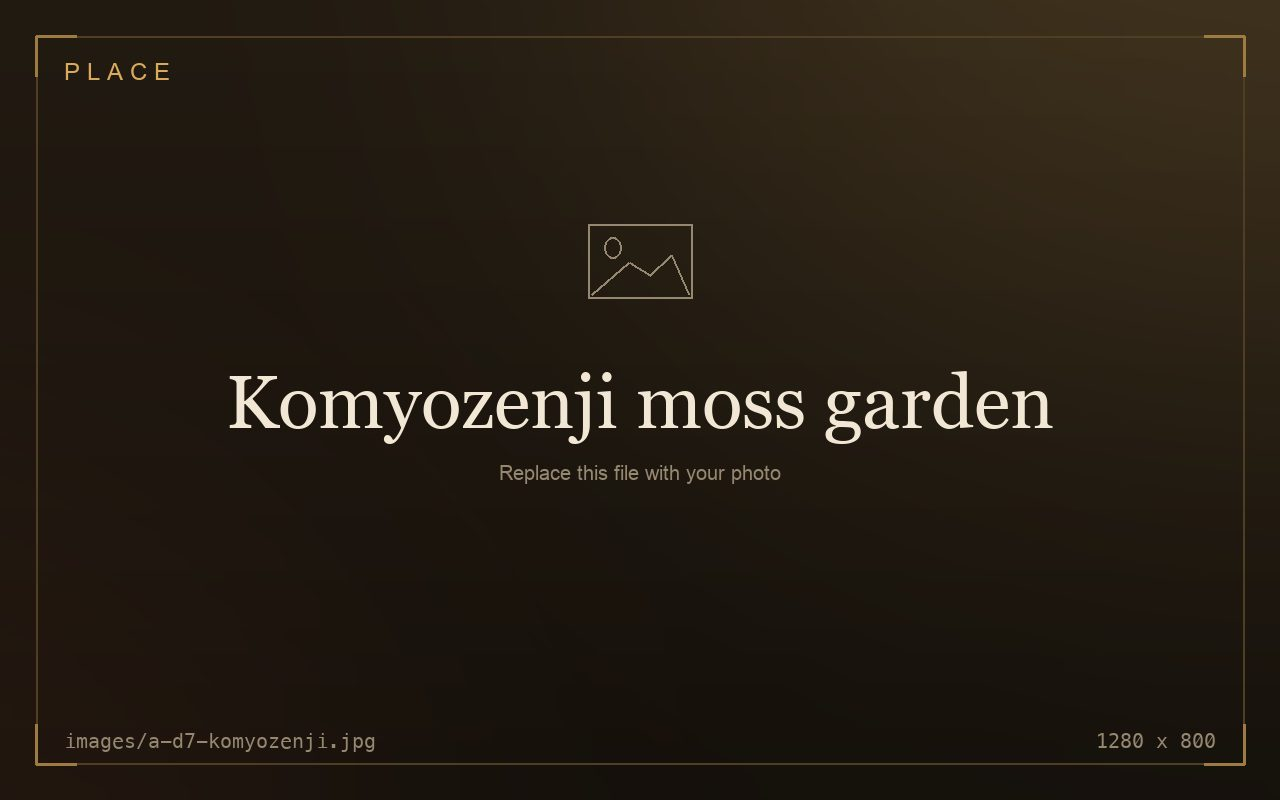
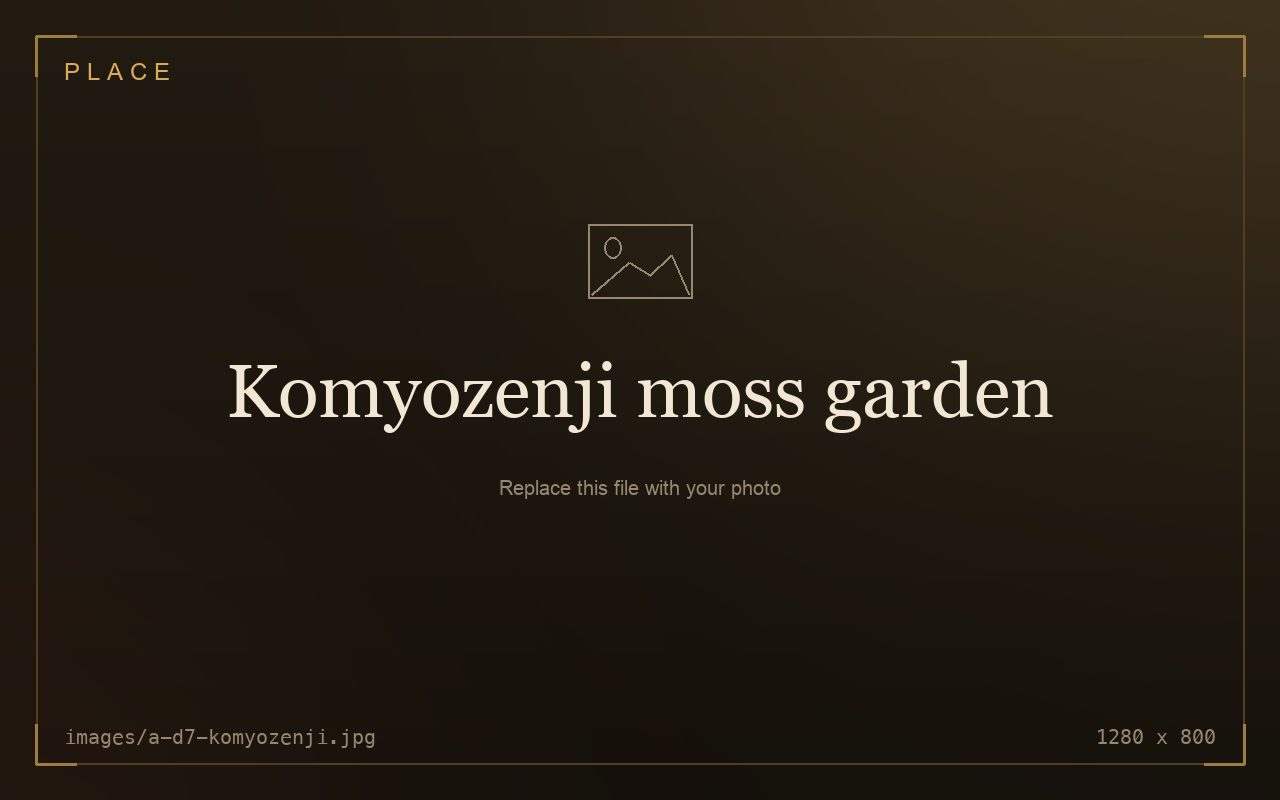
Make the placeholder generator work on Pillow 10+; v66
Pillow 10 removed FreeTypeFont.getsize(), which measure() was built on, so
images/_generate_placeholders.py died with AttributeError on any modern
install. measure() now derives the same values from getbbox().

The mapping is not the obvious one. Pillow defined getbbox() as
(left, top, left+width, top+height) and getsize() as
(size[0], size[1] + offset[1]) -- so getsize == (right - left, bottom).
The height keeps the vertical offset, the width does not.

Verified rather than assumed: regenerated an existing placeholder under each
candidate mapping and compared the title's ink bounding box against the
committed original. (right-left, bottom) reproduces it exactly; the plausible
(right-left, bottom-top) shifts the title down 11px and shrinks line spacing
by 14px. Non-text regions come back pixel-identical, and the residual in the
title band is FreeType glyph antialiasing between versions, not misplacement.
Also exercised the wrap and auto-shrink paths on a title long enough to need
both. Comment in measure() records the trap.

Regenerated a-d7-komyozenji.jpg, which I had produced earlier via a one-off
shim using the wrong mapping, so its title now sits on the same baseline as
the other 163 placeholders. No other image is touched -- the exists-guard in
make() held, md5-verified across all 170 files.

Changed region(s): [[0.1875, 0.4375, 0.8438, 0.625], [0.0625, 0.9062, 0.3125, 0.9375], [0.8438, 0.9062, 0.9688, 0.9375]]

diff --git a/sw.js b/sw.js
@@ -1,5 +1,5 @@
 /* WWN - Kyushu Trip - offline service worker */
-const CACHE = 'wwn-kyushu-v65';
+const CACHE = 'wwn-kyushu-v66';
 const PRECACHE = ["./", "manifest.json", "vendor/react.production.min.js", "vendor/react-dom.production.min.js", "vendor/babel.min.js", "icon-192.png", "icon-512.png", "images/a-d1-canalcity.jpg", "images/a-d1-fukcoffee.jpg", "images/a-d1-illum.jpg", "images/a-d1-imdonut.jpg", "images/a-d1-motsunabe.jpg", "images/a-d1-nightlife.jpg", "images/a-d1-ramen.jpg", "images/a-d10-canal.jpg", "images/a-d10-dinner.jpg", "images/a-d10-illum.jpg", "images/a-d10-mentaiko.jpg", "images/a-d10-nightlife.jpg", "images/a-d10-ramen.jpg", "images/a-d2-cityrun.jpg", "images/a-d2-milkroad.jpg", "images/a-d2-nishiyu.jpg", "images/a-d2-komezuka.jpg", "images/a-d2-dinner.jpg", "images/a-d2-nightlife.jpg", "images/a-d2-omotesando.jpg", "images/a-d2-starbucks.jpg", "images/a-d2-tenmangu.jpg", "images/a-d2-unagi.jpg", "images/a-d2-yanagawa.jpg", "images/a-d2-yatai.jpg", "images/a-d3-daikanbo.jpg", "images/a-d3-kaiseki.jpg", "images/a-d3-kusasenri.jpg", "images/a-d3-lunch.jpg", "images/a-d3-nakadake.jpg", "images/a-d3-sweets.jpg", "images/a-d4-basashi.jpg", "images/a-d4-castle.jpg", "images/a-d4-katsuretsu.jpg", "images/a-d4-suizenji.jpg", "images/a-d4-sweets.jpg", "images/a-d5-chinoike.jpg", "images/a-d5-lunch.jpg", "images/a-d5-sushi.jpg", "images/a-d5-sweets.jpg", "images/a-d5-umijigoku.jpg", "images/a-d6-kinrin.jpg", "images/a-d6-mabushi.jpg", "images/a-d6-ryokan.jpg", "images/a-d6-sweets.jpg", "images/a-d6-yunotsubo.jpg", "images/a-d7-lunch.jpg", "images/a-d7-mist.jpg", "images/a-d7-komyozenji.jpg", "images/a-d7-shopping.jpg", "images/a-d7-tempura.jpg", "images/a-d8-cafes.jpg", "images/a-d8-dinner.jpg", "images/a-d8-keya.jpg", "images/a-d8-oyster.jpg", "images/a-d8-sunset.jpg", "images/a-d8-torii.jpg", "images/a-d9-daimyo.jpg", "images/a-d9-lunch.jpg", "images/a-d9-maizuru.jpg", "images/a-d9-nightlife.jpg", "images/a-d9-ohori.jpg", "images/a-d9-sweets.jpg", "images/a-d9-tower.jpg", "images/a-d9-yakiniku.jpg", "images/cover-hero.jpg", "images/day1-cover.jpg", "images/day10-cover.jpg", "images/day11-cover.jpg", "images/day2-cover.jpg", "images/day3-cover.jpg", "images/day4-cover.jpg", "images/day5-cover.jpg", "images/day6-cover.jpg", "images/day7-cover.jpg", "images/day8-cover.jpg", "images/day9-cover.jpg", "images/dish-a-d1-imdonut-0.jpg", "images/dish-a-d1-imdonut-1.jpg", "images/dish-a-d1-imdonut-2.jpg", "images/dish-a-d1-fukcoffee-0.jpg", "images/dish-a-d1-fukcoffee-1.jpg", "images/dish-a-d1-motsunabe-0.jpg", "images/dish-a-d1-motsunabe-1.jpg", "images/dish-a-d1-motsunabe-2.jpg", "images/dish-a-d1-motsunabe-3.jpg", "images/dish-a-d1-ramen-0.jpg", "images/dish-a-d1-ramen-1.jpg", "images/dish-a-d1-ramen-2.jpg", "images/dish-a-d1-ramen-3.jpg", "images/dish-a-d10-ramen-0.jpg", "images/dish-a-d10-ramen-1.jpg", "images/dish-a-d10-ramen-2.jpg", "images/dish-a-d10-ramen-3.jpg", "images/dish-a-d2-cityrun-0.jpg", "images/dish-a-d2-cityrun-1.jpg", "images/dish-a-d2-cityrun-2.jpg", "images/dish-a-d2-cityrun-3.jpg", "images/dish-a-d2-cityrun-4.jpg", "images/dish-a-d2-cityrun-5.jpg", "images/dish-a-d2-starbucks-0.jpg", "images/dish-a-d2-starbucks-1.jpg", "images/dish-a-d2-starbucks-2.jpg", "images/dish-a-d2-yatai-0.jpg", "images/dish-a-d2-yatai-1.jpg", "images/dish-a-d2-yatai-2.jpg", "images/dish-a-d2-yatai-3.jpg", "images/dish-a-d3-kaiseki-0.jpg", "images/dish-a-d3-kaiseki-1.jpg", "images/dish-a-d3-kaiseki-2.jpg", "images/dish-a-d3-kaiseki-3.jpg", "images/dish-a-d3-sweets-0.jpg", "images/dish-a-d3-sweets-1.jpg", "images/dish-a-d3-sweets-2.jpg", "images/dish-a-d4-basashi-0.jpg", "images/dish-a-d4-basashi-1.jpg", "images/dish-a-d4-basashi-2.jpg", "images/dish-a-d4-basashi-3.jpg", "images/dish-a-d4-katsuretsu-0.jpg", "images/dish-a-d4-katsuretsu-1.jpg", "images/dish-a-d4-katsuretsu-2.jpg", "images/dish-a-d4-katsuretsu-3.jpg", "images/dish-a-d4-sweets-0.jpg", "images/dish-a-d4-sweets-1.jpg", "images/dish-a-d4-sweets-2.jpg", "images/dish-a-d5-sushi-0.jpg", "images/dish-a-d5-sushi-1.jpg", "images/dish-a-d5-sushi-2.jpg", "images/dish-a-d5-sushi-3.jpg", "images/dish-a-d5-sweets-0.jpg", "images/dish-a-d5-sweets-1.jpg", "images/dish-a-d5-sweets-2.jpg", "images/dish-a-d6-mabushi-0.jpg", "images/dish-a-d6-mabushi-1.jpg", "images/dish-a-d6-mabushi-2.jpg", "images/dish-a-d6-mabushi-3.jpg", "images/dish-a-d6-ryokan-0.jpg", "images/dish-a-d6-ryokan-1.jpg", "images/dish-a-d6-ryokan-2.jpg", "images/dish-a-d6-ryokan-3.jpg", "images/dish-a-d6-sweets-0.jpg", "images/dish-a-d6-sweets-1.jpg", "images/dish-a-d6-sweets-2.jpg", "images/dish-a-d6-sweets-3.jpg", "images/dish-a-d7-tempura-0.jpg", "images/dish-a-d7-tempura-1.jpg", "images/dish-a-d7-tempura-2.jpg", "images/dish-a-d7-tempura-3.jpg", "images/dish-a-d8-oyster-0.jpg", "images/dish-a-d8-oyster-1.jpg", "images/dish-a-d8-oyster-2.jpg", "images/dish-a-d8-oyster-3.jpg", "images/dish-a-d9-sweets-0.jpg", "images/dish-a-d9-sweets-1.jpg", "images/dish-a-d9-sweets-2.jpg", "images/dish-a-d9-yakiniku-0.jpg", "images/dish-a-d9-yakiniku-1.jpg", "images/dish-a-d9-yakiniku-2.jpg", "images/dish-a-d9-yakiniku-3.jpg", "images/map-kyushu.jpg", "images/p-bank.jpg", "images/p-nick.jpg", "images/p-tagot.jpg", "images/p-tum.jpg", "images/r-aso.jpg", "images/r-beppu.jpg", "images/r-fukuoka.jpg", "images/r-itoshima.jpg", "images/r-kumamoto.jpg", "images/r-yufuin.jpg"];
 self.addEventListener('install', (e) => {
   self.skipWaiting();

diff --git a/index.html b/index.html
@@ -6316,7 +6316,7 @@ ReactDOM.createRoot(document.getElementById('root')).render(<App />);
   if ('serviceWorker' in navigator) {
     window.addEventListener('load', function () {
       navigator.serviceWorker.register('sw.js').catch(function () {});
-      if (window.caches) caches.open('wwn-kyushu-v65').then(function (c) {
+      if (window.caches) caches.open('wwn-kyushu-v66').then(function (c) {
         c.add(new Request(location.href, { cache: 'reload' })).catch(function () {});
       });
     });

diff --git a/images/_generate_placeholders.py b/images/_generate_placeholders.py
@@ -10,6 +10,11 @@ of the same name (keep it .jpg), or drag-drop it onto the slot in the browser.
 Re-run after editing the trip data (adds/removes activities, days, dishes):
     python3 images/_generate_placeholders.py
 The slot list lives in images/_slots.json.
+
+Existing files are never overwritten (see make()), so this is safe to re-run —
+delete a .jpg first if you want it regenerated.
+
+Needs Pillow: pip3 install pillow. Works on Pillow 8 through 11+.
 """
 import json, os
 from PIL import Image, ImageDraw, ImageFont, ImageFilter
@@ -52,7 +57,23 @@ def norm(s):
 
 
 def measure(font, text):
-    return font.getsize(text)
+    """(width, height) in the sense Pillow's FreeTypeFont.getsize() meant.
+
+    Pillow 10 removed getsize(). Its replacement getbbox() returns
+    (left, top, right, bottom) measured from the same origin, and the old
+    getsize() was defined as (size[0], size[1] + offset[1]) — which in getbbox
+    terms is (right - left, bottom). Note the asymmetry: the height keeps the
+    vertical offset but the width does not.
+
+    Keep that exact mapping. Using (right - left, bottom - top) instead looks
+    reasonable but drops the offset from the height, which shifts the wrapped
+    title down ~11px and shrinks its line spacing — regenerated placeholders
+    then no longer line up with the existing set.
+    """
+    if hasattr(font, "getbbox"):          # Pillow >= 8
+        left, _top, right, bottom = font.getbbox(text)
+        return right - left, bottom
+    return font.getsize(text)             # Pillow < 8
 
 
 def wrap(text, font, maxw):
